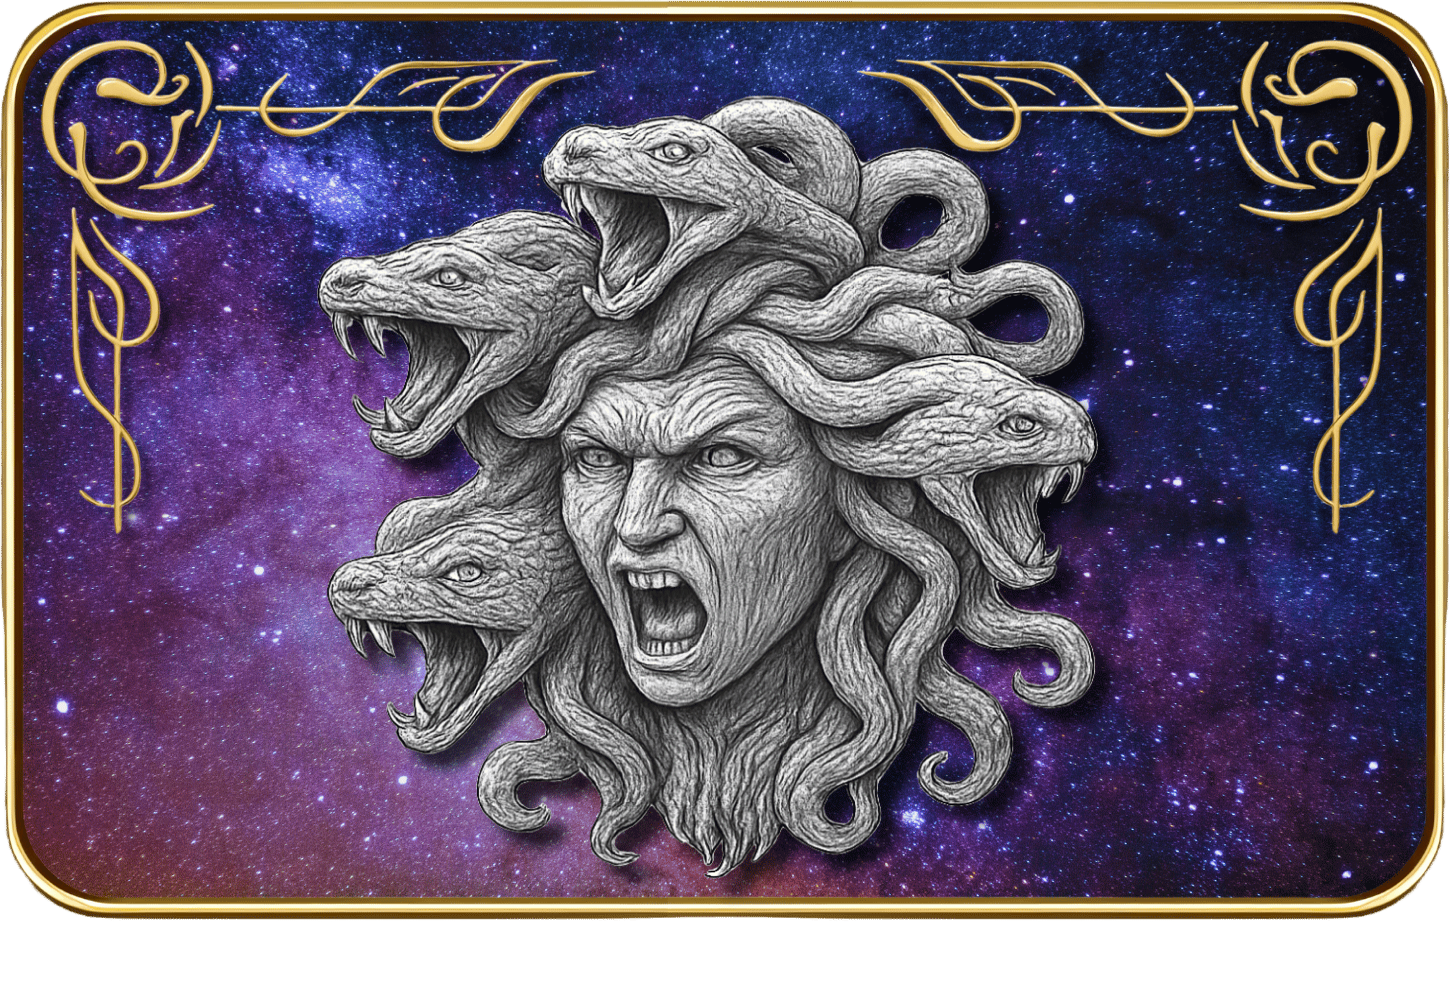
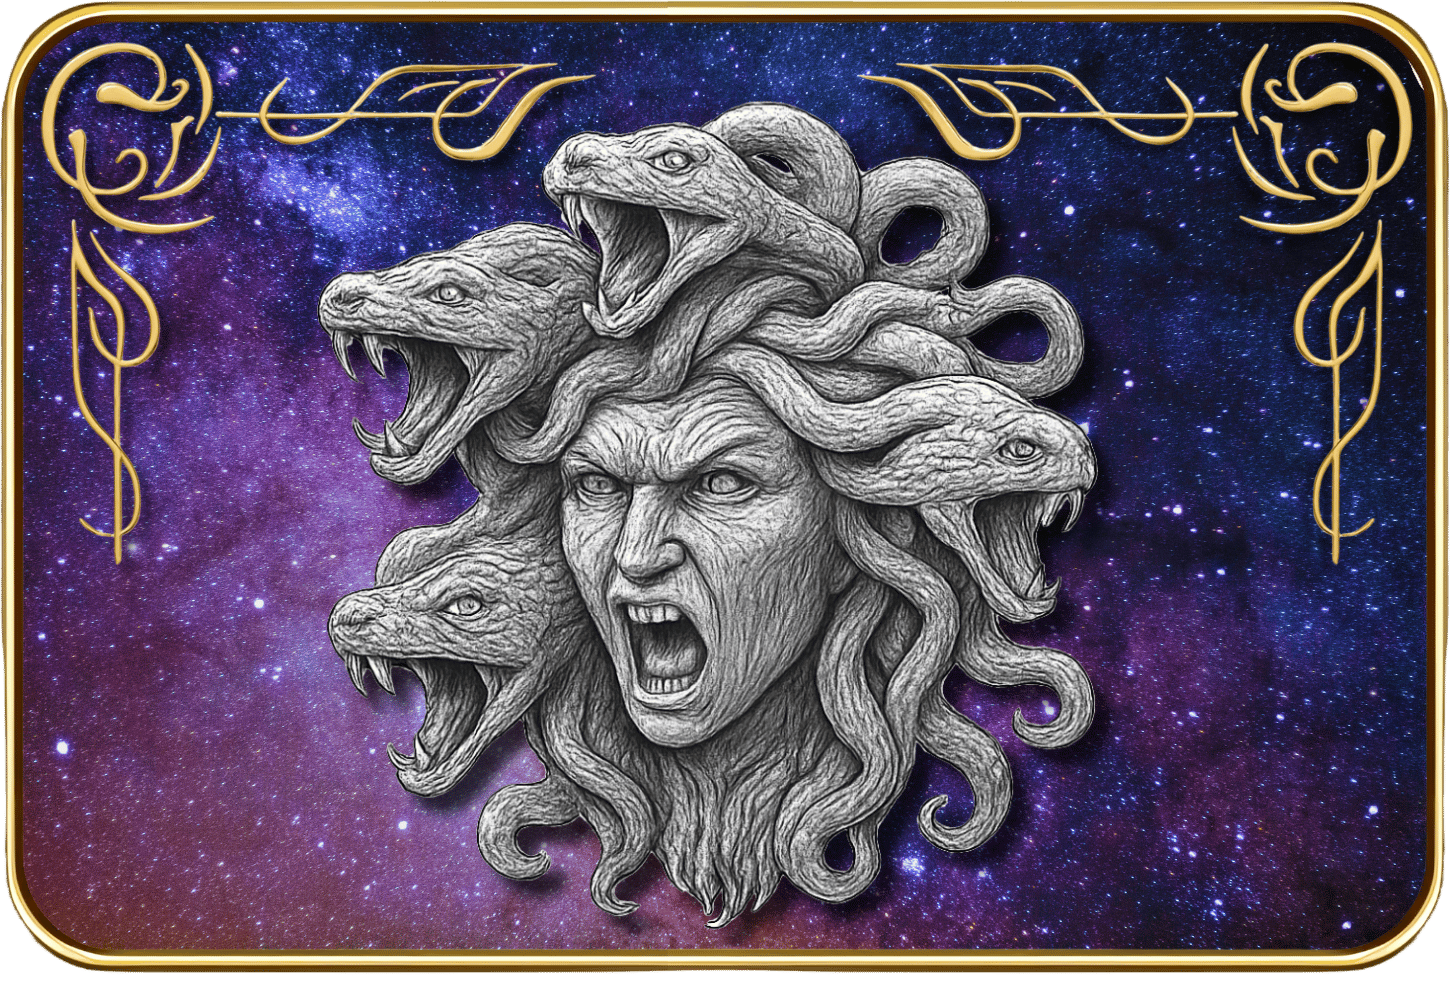
-Updated Carousel by removing additional useFrame. -Cropped pngs to remove render inconsistencies.

diff --git a/src/Carousel.tsx b/src/Carousel.tsx
@@ -234,11 +234,6 @@ function Scene({
   mode: "zodiac" | "species";
 }) {
   const fixedAngle = Math.PI / 2 - (12 * Math.PI) / 200;
-
-  useFrame(({ camera }) => {
-    const tar = mode === "zodiac" ? 16 : 18;
-    camera.position.z += (tar - camera.position.z) * 0.05;
-  });
   return (
     <>
       <ambientLight intensity={1} />
